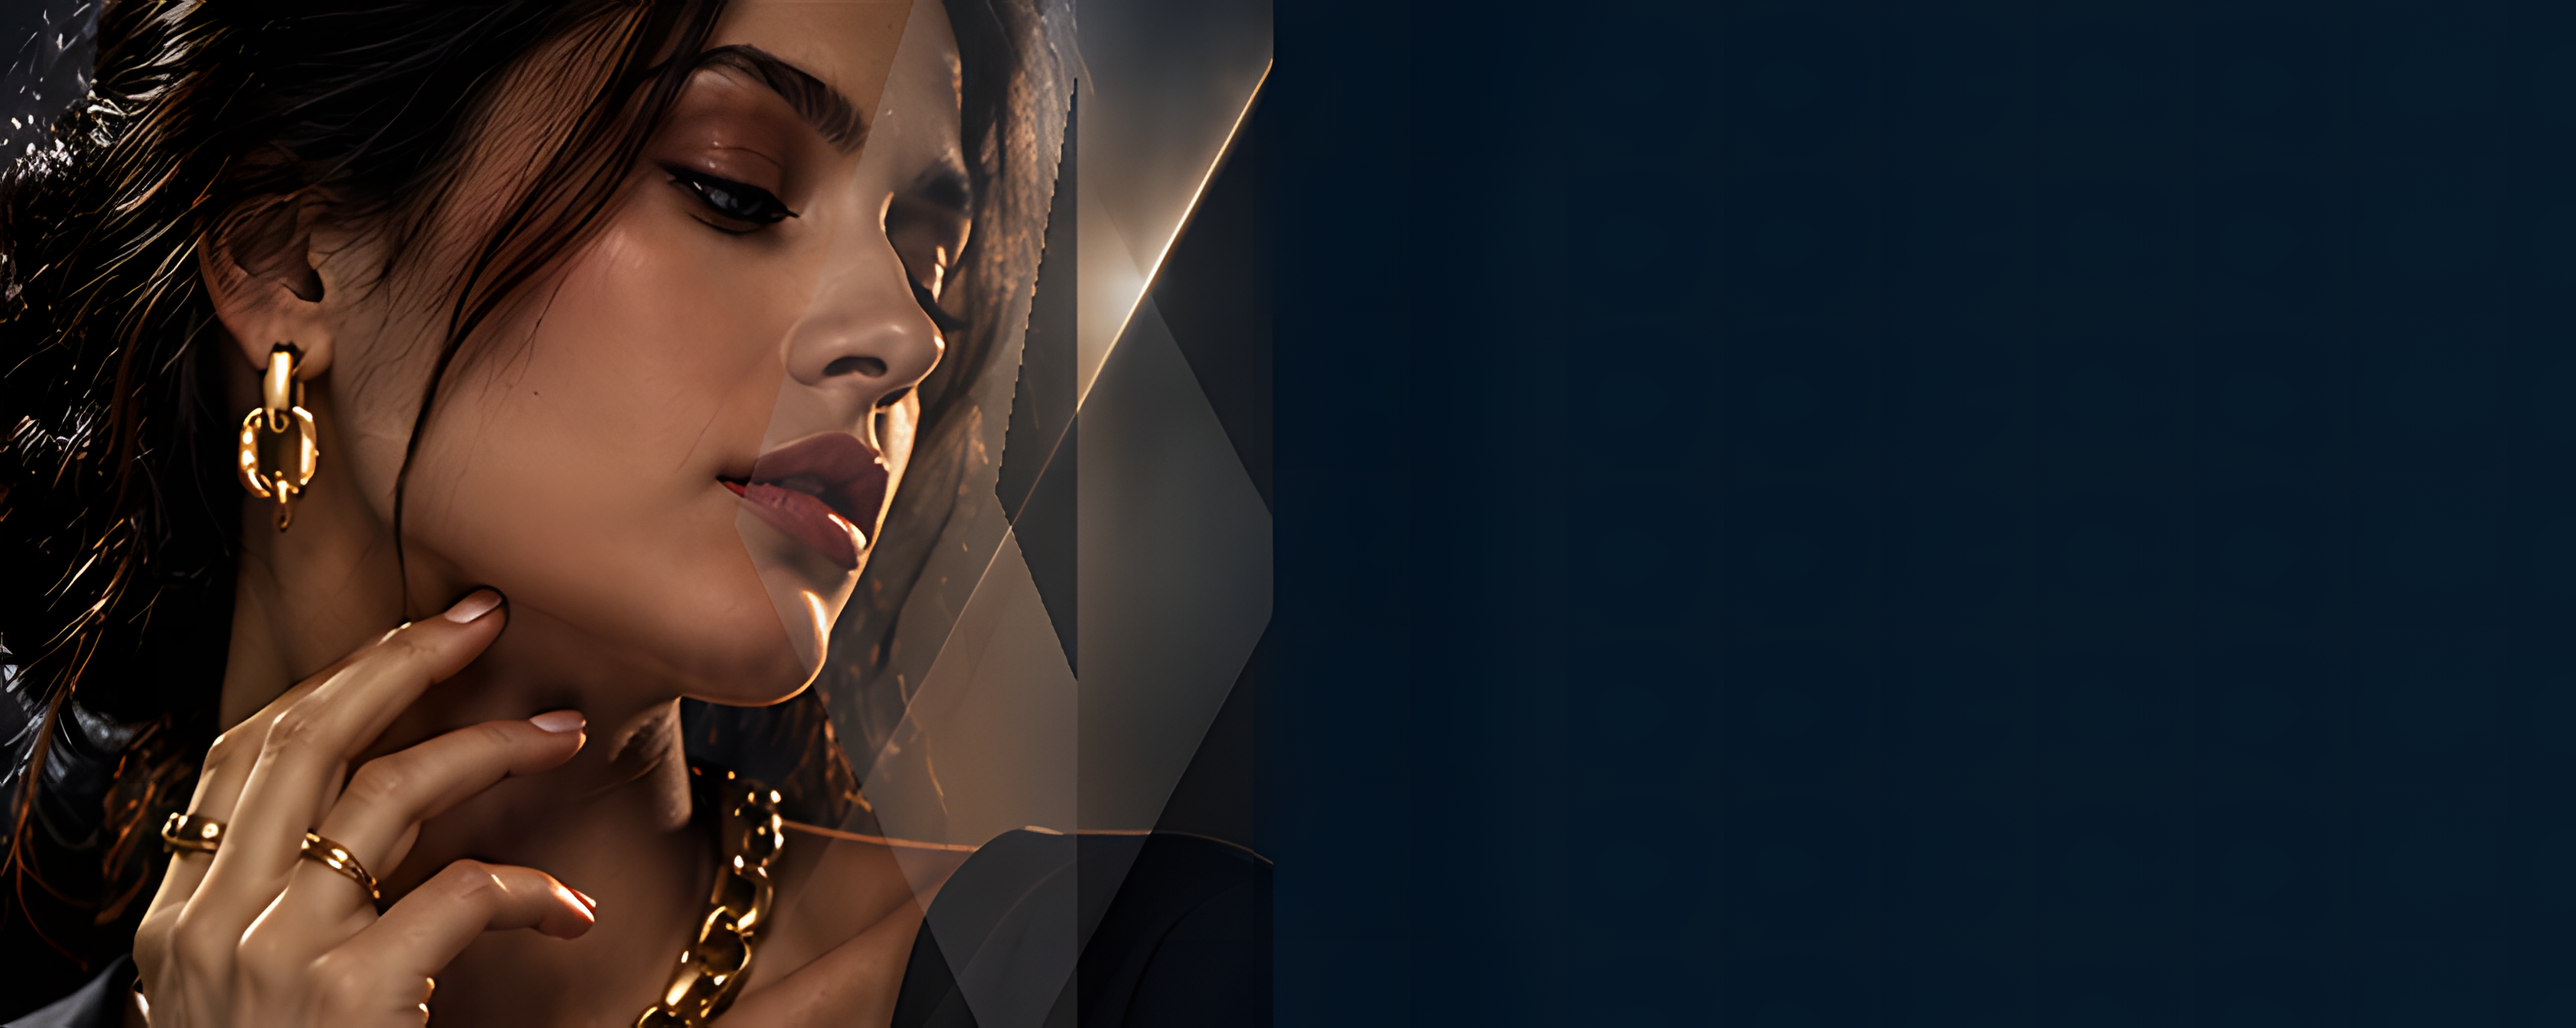
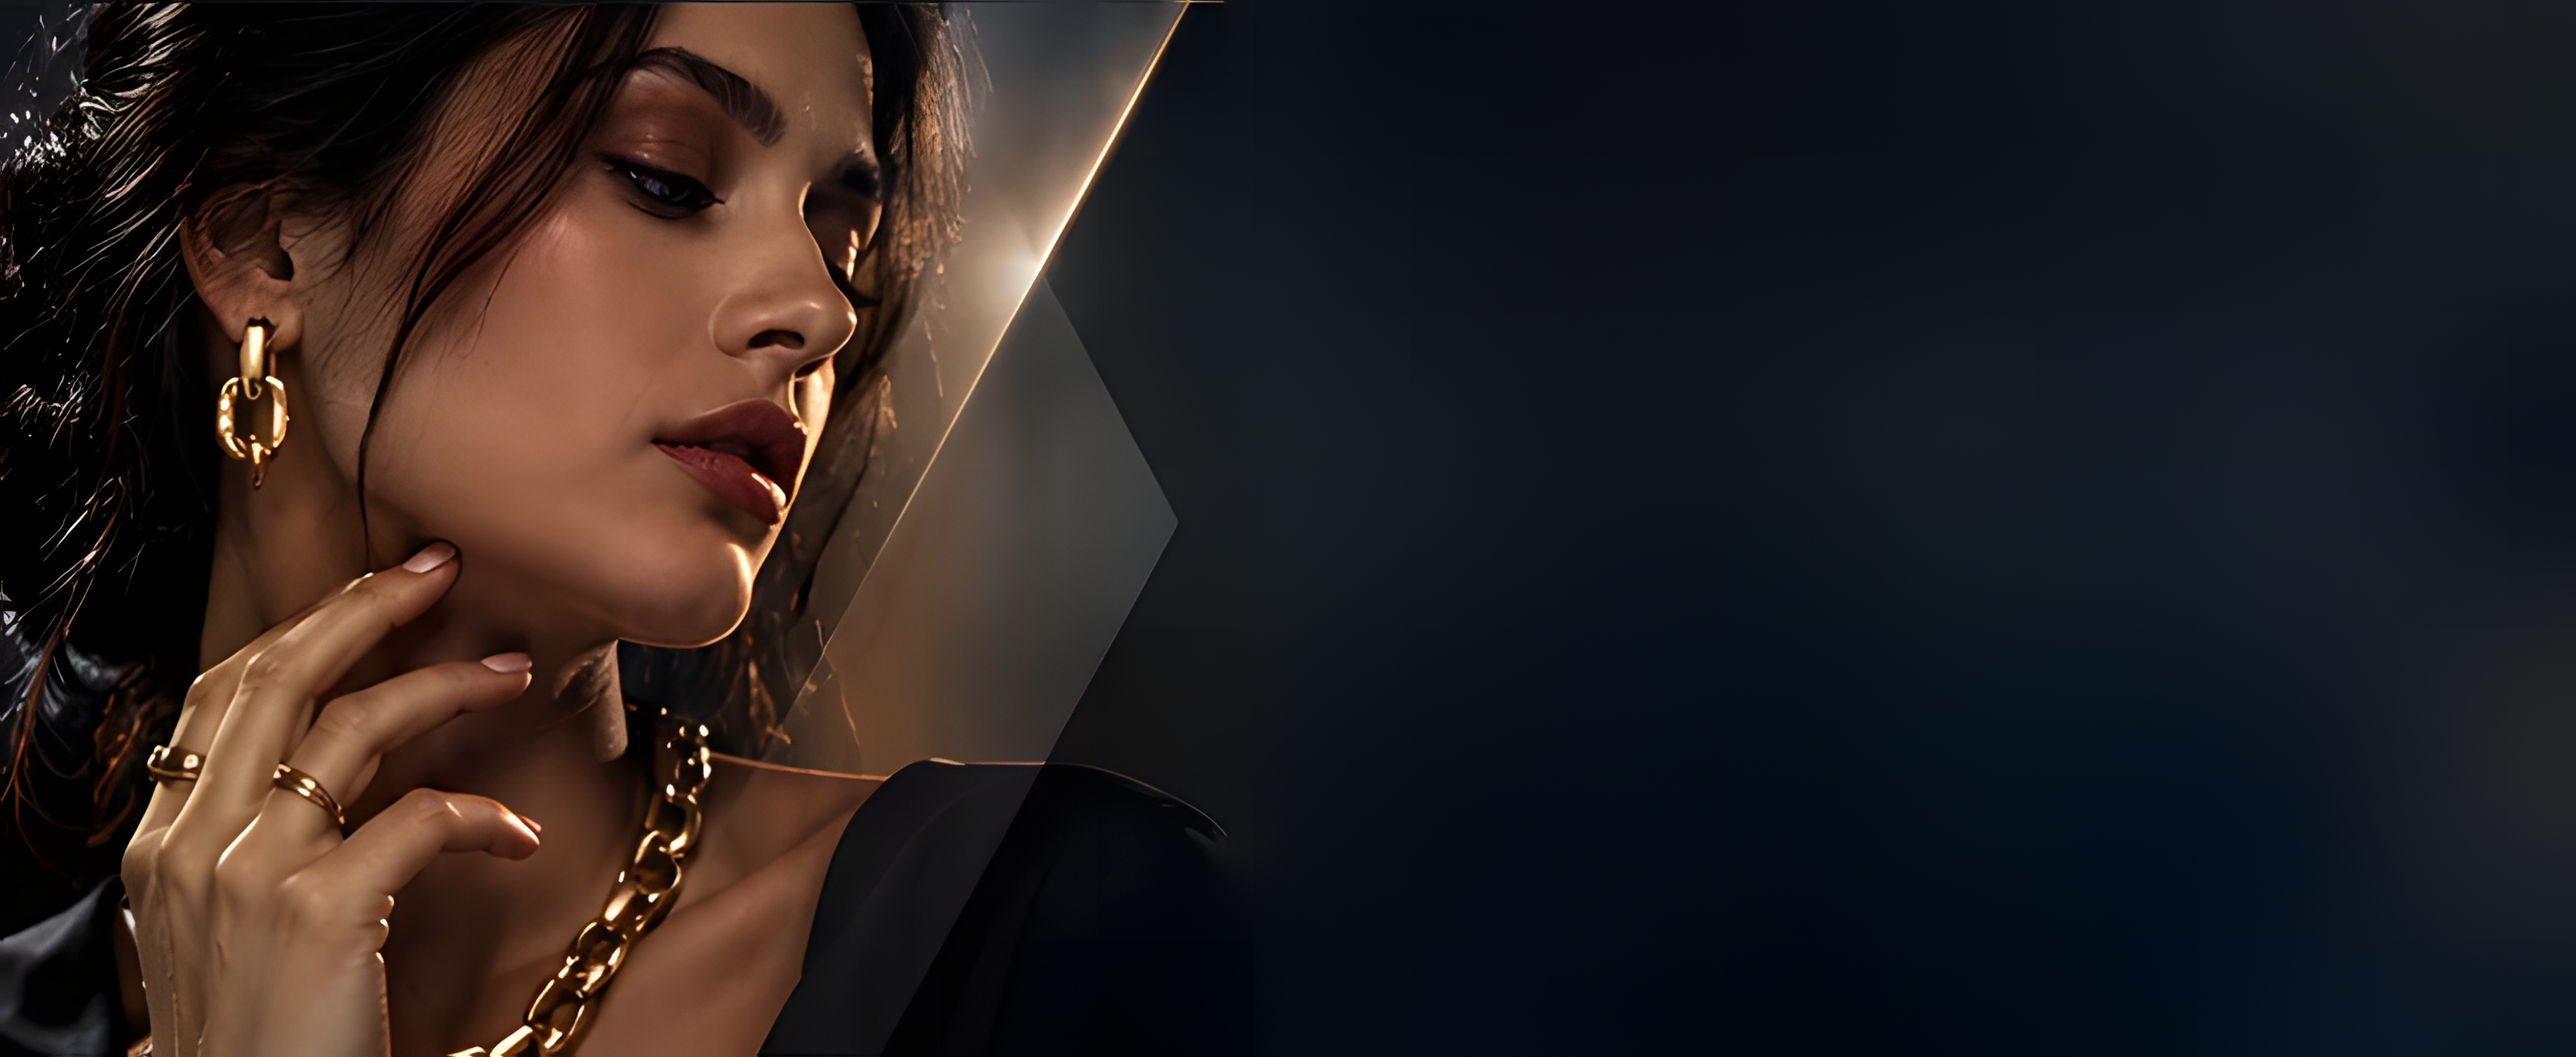
Audace Galvânica: hero e consultoria reconstruídos a partir da arte aprovada
O fundo do hero no pacote tinha a corrente fora do enquadramento aprovado e o
da consultoria trazia uma forma geométrica serrilhada inexistente na arte.
Ambos refeitos da própria arte (textos removidos por inpainting sobre fundo
desfocado) e ampliados com Real-ESRGAN.

Claude-Session: https://claude.ai/code/session_01ENtpLZqkvgXs8ZFVt6f4qf

Changed region(s): [[0.0, 0.0, 0.4968, 1.0], [0.9626, 0.619, 1.0, 0.8048]]

diff --git a/audace-galvanica/index.html b/audace-galvanica/index.html
@@ -73,7 +73,7 @@
       <div class="section__bg">
         <picture>
           <source type="image/webp" srcset="images/backgrounds/section_01_hero_bg_clean_4x_900w.webp 900w, images/backgrounds/section_01_hero_bg_clean_4x_1600w.webp 1600w, images/backgrounds/section_01_hero_bg_clean_4x_3156w.webp 3156w" sizes="100vw">
-          <img src="images/backgrounds/section_01_hero_bg_clean_4x.png" alt="Corrente de semijoia com banho dourado sendo retirada do tanque galvânico" width="3156" height="1860" fetchpriority="high" decoding="async">
+          <img src="images/backgrounds/section_01_hero_bg_clean_4x.png" alt="Corrente de semijoia com banho dourado sendo retirada do tanque galvânico" width="3156" height="1904" fetchpriority="high" decoding="async">
         </picture>
       </div>
 
@@ -107,7 +107,7 @@
       <div class="section__bg">
         <picture>
           <source type="image/webp" srcset="images/backgrounds/section_02_consult_bg_clean_4x_900w.webp 900w, images/backgrounds/section_02_consult_bg_clean_4x_1600w.webp 1600w, images/backgrounds/section_02_consult_bg_clean_4x_3156w.webp 3156w" sizes="100vw">
-          <img src="images/backgrounds/section_02_consult_bg_clean_4x.png" alt="Modelo usando brincos, anéis e corrente de semijoias douradas" width="3156" height="1260" loading="lazy" decoding="async">
+          <img src="images/backgrounds/section_02_consult_bg_clean_4x.png" alt="Modelo usando brincos, anéis e corrente de semijoias douradas" width="3156" height="1296" loading="lazy" decoding="async">
         </picture>
       </div>
 

diff --git a/audace-galvanica/styles.css b/audace-galvanica/styles.css
@@ -113,14 +113,6 @@ button, input, select, textarea { font: inherit; color: inherit; }
 .section__bg picture { display: block; width: 100%; height: 100%; }
 .section__bg img { width: 100%; height: 100%; object-fit: cover; }
 .hero .section__bg img { object-position: 50% 45%; }
-/* O fundo entregue tem um corte reto entre o painel escuro e a foto (a ~44% da largura).
-   Na arte aprovada essa passagem é suave: este degradê só funde a divisa, sem alterar o arquivo. */
-.hero .section__bg::after {
-  content: ""; position: absolute; inset: 0; pointer-events: none;
-  background: linear-gradient(90deg, rgba(4, 14, 22, 0) 41%, #040E16 44.4%, rgba(4, 14, 22, .55) 47.5%, rgba(4, 14, 22, 0) 53%);
-}
-
-
 .display { font-family: var(--font-display); font-weight: 400; }
 .gold { color: var(--gold); }
 

diff --git a/audace-galvanica/README.md b/audace-galvanica/README.md
@@ -59,7 +59,10 @@ icons/svg/      Ícones SVG fornecidos
 - Textos seguem `copy/copy.json` do pacote na Drive (descrições dos benefícios em minúscula; todos os
   campos do formulário obrigatórios). "Qual é a sua principal necessidade?" segue como texto livre
   porque o copy.json pede um select mas não traz as opções.
-- Hero: o fundo tem um corte reto entre painel e foto; um degradê em CSS suaviza a divisa como na arte.
+- Hero e consultoria reconstruídos a partir da própria arte aprovada: o fundo `section_01` do pacote trazia
+  a corrente ampliada fora do enquadramento aprovado e o `section_02` uma forma geométrica serrilhada que
+  não existe na arte. As áreas de texto da arte foram removidas por preenchimento (OpenCV Telea) sobre
+  fundo desfocado; hero usa o painel escuro do pacote à esquerda. Depois, Real-ESRGAN x4.
 
 ## Sistema de medidas
 
